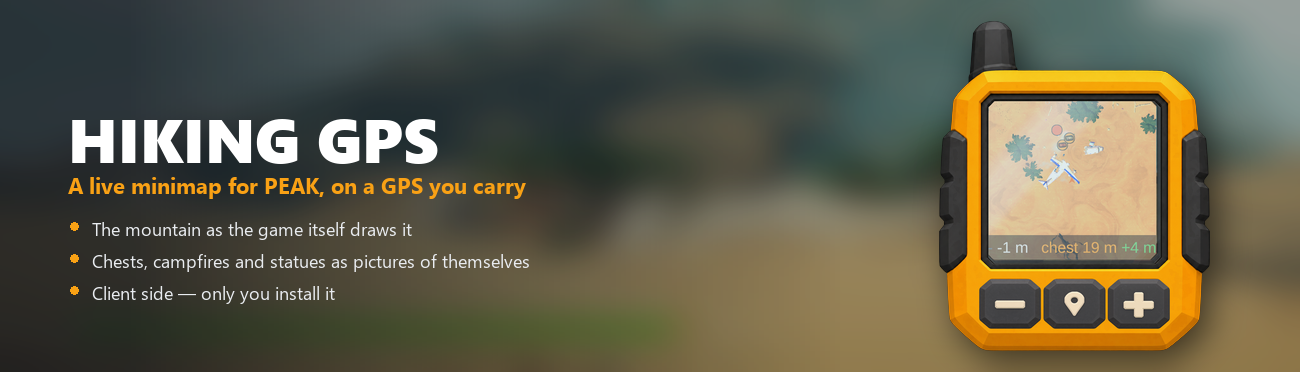
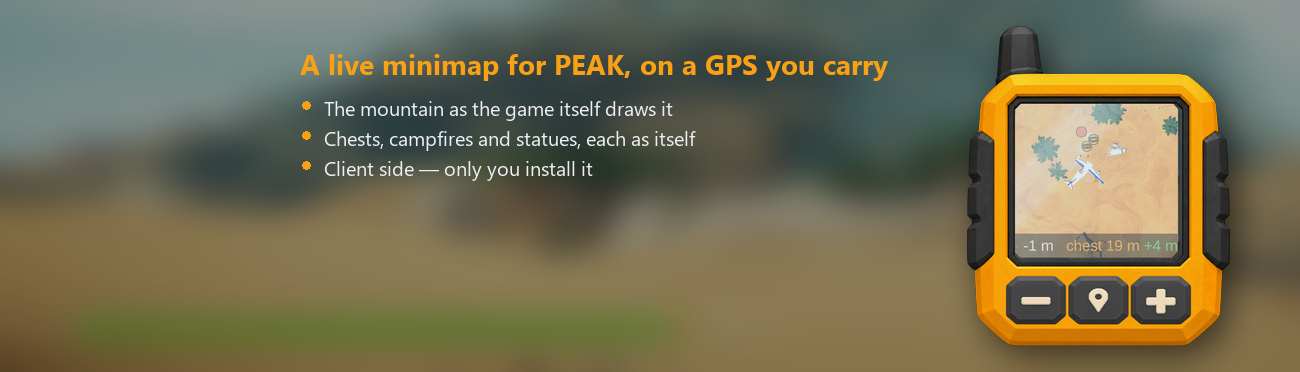
Say less on the store pages, and give the mod a cover that survives being small
Three things a person looking at the published pages caught that reading the
files could not.

The achievements note was wrong and then it was long. PEAK blocks achievements
only during its own custom runs -- the check is RunSettings.blockingAchievements
and it returns nothing but that -- and the game looks for no mod loader
anywhere. The first correction explained all of it on a mod page, which is the
wrong place for a paragraph. It is one line now: achievements keep working.

The Nexus header collided with Nexus. The site draws its own breadcrumb, title
and stats over the lower left of the banner, so a banner with its own title
there produces two titles on top of each other. The text moved right and up,
into the part the site leaves alone, and the left is deliberately empty because
that is where the site writes.

The icon was lines of small text. At the size Thunderstore actually shows it,
in a list beside every other mod, none of it could be read. It is the device
now, large, on a plain grey field -- the one thing that stays legible at any
size. The Nexus cover keeps the game behind it, where there is room for both.

Also: the Nexus archive carried a licence and a readme at its root. That archive
extracts over the game folder, so both landed loose in the player's PEAK
directory next to the game's own files. It ships one file now, at the path it
belongs at. Thunderstore keeps its four, because the manifest and the icon are
required there and the readme is the page itself.

diff --git a/packaging/CHANGELOG.md b/packaging/CHANGELOG.md
@@ -1,5 +1,20 @@
 # Changelog
 
+## 1.0.3
+
+- New icon: the GPS itself, large, on a plain grey field. The old one carried
+  lines of small text that were unreadable at the size an icon is actually
+  shown at.
+
+Text and artwork only. The mod is unchanged from 1.0.1.
+
+## 1.0.2
+
+- The readme said mods disable Steam achievements. They keep working; the note
+  is corrected.
+
+Text only. The mod itself is unchanged from 1.0.1.
+
 ## 1.0.1
 
 - **Unbound the two development hotkeys.** `F11` saved a screenshot and `F10`

diff --git a/packaging/README.md b/packaging/README.md
@@ -73,7 +73,7 @@ the game over and can quit for you. It is off by default.
 
 ## Notes
 
-- Mods generally disable Steam achievements. This one is no exception.
+- Steam achievements keep working.
 - If PEAK crashes on startup with BepInEx installed, launching with `-dx12` is
   the usual fix.
 - Please do not report bugs to Aggro Crab or Landfall while running mods.
